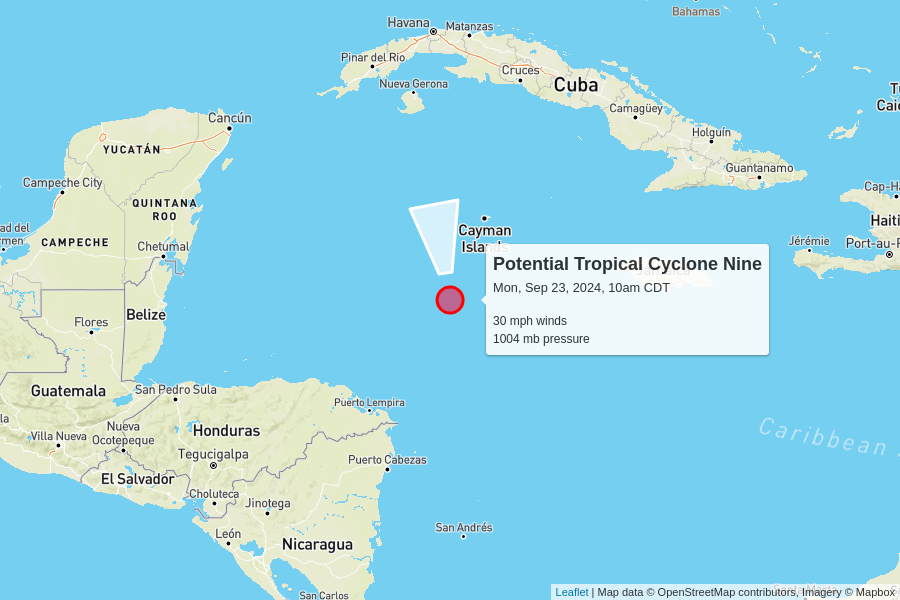
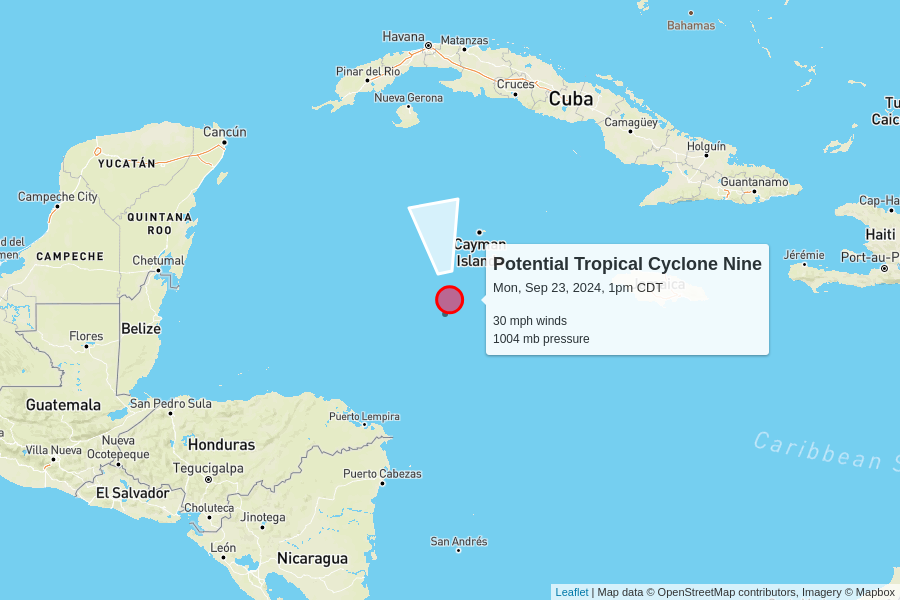
automatic update

diff --git a/docs/index.html b/docs/index.html
@@ -102,7 +102,7 @@
         <td colspan="6" class="storm category-0" >
           <h2>
             Potential Tropical Cyclone Nine
-            <p class="updated">last updated <span data-time>2024-09-23T15:00:00.000Z</span></p>
+            <p class="updated">last updated <span data-time>2024-09-23T18:00:00.000Z</span></p>
           </h2>
         </td>
       </tr>
@@ -117,8 +117,8 @@
       </tr>
       <tr>
         <td class="spacer"></td>
-        <td>30 mph</td>
-        <td>1004 mb</td>
+        <td>30 mph<br>0 mph since last update</td>
+        <td>1004 mb<br>0 mb since last update</td>
         <td>
           6 mph to the north
           <br/>
